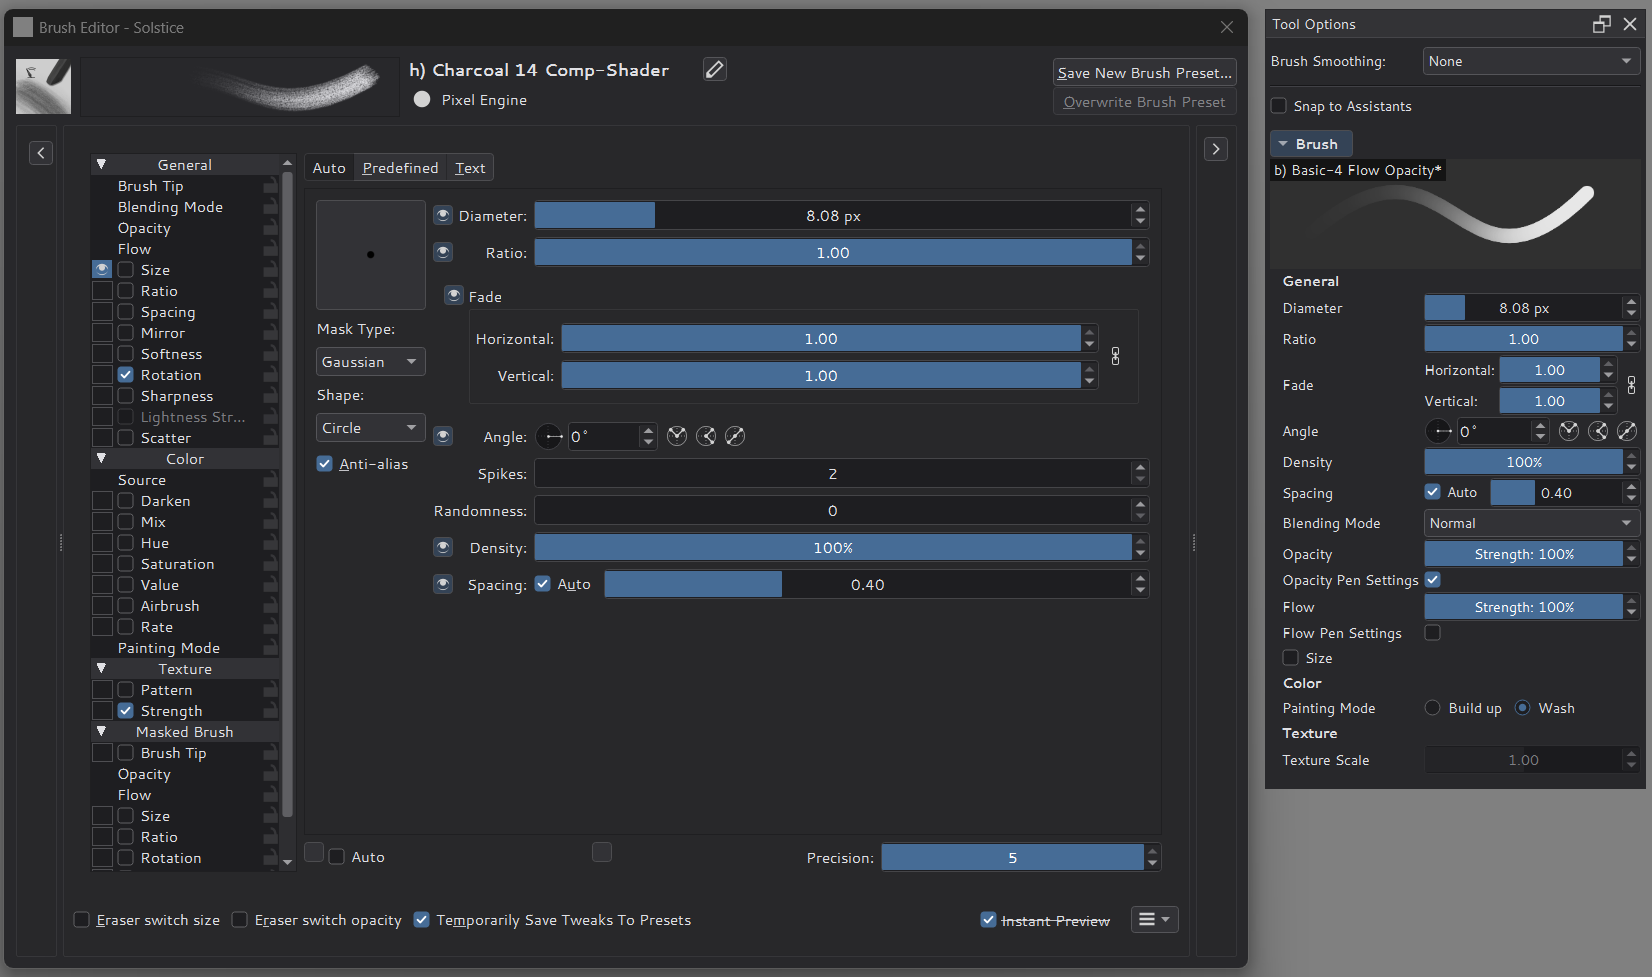
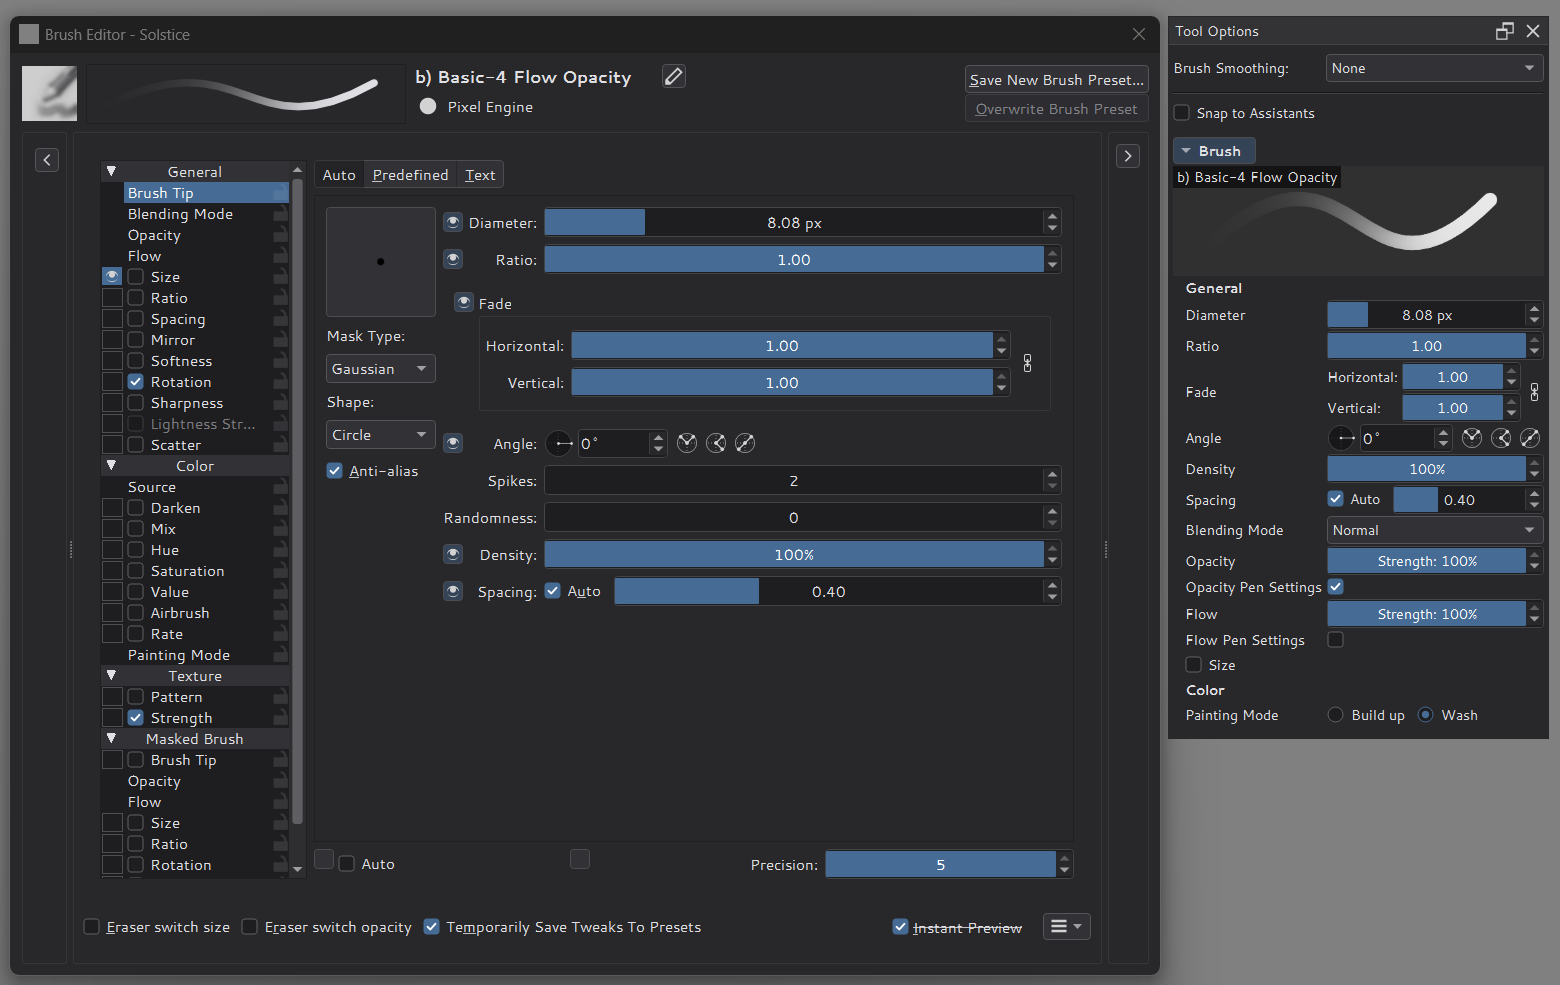
Brush Editor fixes; new README screenshots
- Switching back to the previous preset (Q) and pen/eraser switches now
  update the Brush Editor's name and thumbnail, not only its settings
  (Krita bug).
- The Brush Editor's option list scroll bars no longer turn white while
  the window has focus: the list replaces its active window color with
  the text color for its checkboxes, and its scroll bars inherited it
  (Krita bug).
- New README main window and Tool Options screenshots.

diff --git a/libs/ui/widgets/kis_categorized_list_view.cpp b/libs/ui/widgets/kis_categorized_list_view.cpp
@@ -15,6 +15,7 @@
 #include <kis_icon.h>
 #include "kis_debug.h"
 #include <KisKineticScroller.h>
+#include <QScrollBar>
 
 KisCategorizedListView::KisCategorizedListView(QWidget* parent):
     QListView(parent)
@@ -26,6 +27,7 @@ KisCategorizedListView::KisCategorizedListView(QWidget* parent):
     QPalette newPall = palette();
     newPall.setColor(QPalette::Active, QPalette::Window, palette().text().color() );
     setPalette(newPall);
+    updateScrollBarPalettes();
 
     {
         QScroller *scroller = KisKineticScroller::createPreconfiguredScroller(this);
@@ -112,6 +114,30 @@ void KisCategorizedListView::rowsAboutToBeRemoved(const QModelIndex &parent, int
 {
     QListView::rowsAboutToBeRemoved(parent, start, end);
     model()->sort(0);
+}
+
+void KisCategorizedListView::updateScrollBarPalettes()
+{
+    // Solstice: the view's active Window color is replaced by the text color
+    // for its checkboxes (see the constructor). The scroll bars inherited it
+    // and turned white while the window had focus; they keep the window
+    // color of the inactive group, which is not replaced.
+    const QColor window = palette().color(QPalette::Inactive, QPalette::Window);
+    for (QScrollBar *bar : {verticalScrollBar(), horizontalScrollBar()}) {
+        if (bar && bar->palette().color(QPalette::Active, QPalette::Window) != window) {
+            QPalette barPalette = bar->palette();
+            barPalette.setColor(QPalette::Active, QPalette::Window, window);
+            bar->setPalette(barPalette);
+        }
+    }
+}
+
+void KisCategorizedListView::changeEvent(QEvent *event)
+{
+    QListView::changeEvent(event);
+    if (event->type() == QEvent::PaletteChange) {
+        updateScrollBarPalettes();
+    }
 }
 
 void KisCategorizedListView::mousePressEvent(QMouseEvent* event)

diff --git a/plugins/paintops/defaultpaintops/brush/tests/KisToolOptionsBrushTest.cpp b/plugins/paintops/defaultpaintops/brush/tests/KisToolOptionsBrushTest.cpp
@@ -7,6 +7,7 @@
 #include <QDir>
 #include <QLabel>
 #include <QRadioButton>
+#include <QScrollBar>
 #include <QTest>
 #include <QToolButton>
 
@@ -59,6 +60,7 @@ private Q_SLOTS:
     void testOtherMirrors();
     void testPresetPreview();
     void testFadeGroup();
+    void testOptionListScrollBarColor();
 };
 
 namespace
@@ -631,6 +633,25 @@ void KisToolOptionsBrushTest::testFadeGroup()
     brushTip->cursor().set(data);
     settle();
     QVERIFY(!fade->isHidden());
+}
+
+/// The option list replaces its active window color with the text color for
+/// its checkboxes; its scroll bars keep the window color (they turned white
+/// while the Brush Editor had focus).
+void KisToolOptionsBrushTest::testOptionListScrollBarColor()
+{
+    Editor editor;
+    QScrollBar *bar = editor.view->verticalScrollBar();
+    const QColor window = editor.view->palette().color(QPalette::Inactive, QPalette::Window);
+    QCOMPARE(bar->palette().color(QPalette::Active, QPalette::Window), window);
+    QVERIFY(bar->palette().color(QPalette::Active, QPalette::Window)
+            != editor.view->palette().color(QPalette::Active, QPalette::Text));
+
+    // a theme change (palette change) keeps it
+    QPalette palette = editor.view->palette();
+    palette.setColor(QPalette::Inactive, QPalette::Window, QColor(10, 20, 30));
+    editor.view->setPalette(palette);
+    QCOMPARE(bar->palette().color(QPalette::Active, QPalette::Window), QColor(10, 20, 30));
 }
 
 SOLSTICE_BRUSH_TEST_MAIN(KisToolOptionsBrushTest)

diff --git a/libs/ui/kis_paintop_box.cc b/libs/ui/kis_paintop_box.cc
@@ -996,6 +996,12 @@ void KisPaintopBox::slotInputDeviceChanged(const KoInputDevice& inputDevice)
             setCurrentPaintop(toolData->paintOpID);
         }
     }
+
+    // Solstice: the Brush Editor's name and thumbnail follow the switch, as
+    // in resourceSelected()
+    if (m_resourceProvider->currentPreset()) {
+        m_presetsEditor->resourceSelected(m_resourceProvider->currentPreset());
+    }
 }
 
 void KisPaintopBox::slotToggleEraserPreset(bool usingEraser)
@@ -1410,6 +1416,9 @@ void KisPaintopBox::slotSwitchToPreviousPreset()
 {
     if (m_resourceProvider->previousPreset()) {
         setCurrentPaintop(m_resourceProvider->previousPreset());
+        // Solstice: the Brush Editor's name and thumbnail follow the switch,
+        // as in resourceSelected() (Krita updated only the settings)
+        m_presetsEditor->resourceSelected(m_resourceProvider->currentPreset());
         m_viewManager->showFloatingMessage(
                     i18n("%1\nselected",
                          m_resourceProvider->currentPreset()->name()),

diff --git a/libs/ui/widgets/kis_categorized_list_view.h b/libs/ui/widgets/kis_categorized_list_view.h
@@ -39,8 +39,12 @@ protected Q_SLOTS:
     void mouseReleaseEvent(QMouseEvent* event) override;
     void slotScrollerStateChange(QScroller::State state);
 
+protected:
+    void changeEvent(QEvent *event) override;
+
 private:
     void updateRows(int begin, int end);    
+    void updateScrollBarPalettes();
     bool isCompositeBoxControl = false;
 };
 

diff --git a/docs/agent/feature-inventory.md b/docs/agent/feature-inventory.md
@@ -28,6 +28,8 @@ git diff --stat -w --ignore-cr-at-eol $(git merge-base krita-sol krita/6.0) krit
 | Brush stroke previews in the toolbar popup and Brush Editor | none | `libs/ui/kis_paintop_box.cc` (`enableStrokePreviewSetting()` on the popup), `libs/ui/widgets/kis_paintop_presets_editor.cpp` (preview mode, hidden Display section, "Preview Size") | `docs/brush-stroke-preview.md`, `docs/agent/brush-stroke-preview.md` |
 | Brush preset grouping | none (code in existing classes) | `libs/resourcewidgets/KisResourceItemListView.{h,cpp}` (`setGrouping()`, `doItemsLayout()`, `paintEvent()`); `libs/ui/widgets/KisPresetDockerFilters.{h,cpp}` (grouping dropdown, `groupOf()`); `libs/ui/widgets/kis_preset_chooser.cpp` (passes the view); `libs/ui/tests/KisBrushStrokePreviewTest.cpp` (`testDockerGrouping`); `kritarc` key `Solstice/BrushPresetGrouping` | `docs/brush-stroke-preview.md`, `docs/agent/brush-preset-grouping.md` |
 | Brush options in Tool Options (phase 3a: eyes on option rows, Brush section; phase 3b: page parameters, shape tools) | `libs/ui/KisToolOptionsBrushItems.*`, `libs/ui/KisToolOptionsParameters.*`, `libs/ui/tool/KisToolOptionsBrushSection.*`, `plugins/paintops/defaultpaintops/brush/tests/KisToolOptionsBrushTest.cpp`, `KisBrushTestMain.h` | `libs/ui/kis_paintop_option.*` (Tool Options id, shown flag), `libs/ui/kis_categorized_list_model.h` (two roles), `libs/ui/kis_paintop_options_model.*`, `libs/ui/kis_categorized_item_delegate.*` (eye column), `libs/ui/kis_paintop_settings_widget.*` (`setPaintOpId()`, `toolOptionsOptions()`), `libs/ui/kis_paintop_box.*` (`sigCurrentSettingsWidgetChanged()`, `currentSettingsWidget()`), `libs/ui/tool/kis_tool_paint.*` (`showsBrushOptions()`), `libs/ui/tool/kis_tool_freehand.h`, `plugins/tools/basictools/kis_tool_line.h`, `libs/ui/CMakeLists.txt`, Pixel Brush and Deform settings widgets (`withToolOptionsId()`), brush tests `CMakeLists.txt`; phase 3b: `KisPaintOpOption::addToolOptionsParameter()`, `KisPaintOpSettingsWidget::toolOptionsParameterId()`, `plugins/paintops/libpaintop/kis_brush_option_widget.cpp`, `KisCompositeOpOptionWidget.cpp`, `KisPaintingModeOptionWidget.cpp`, `KisTextureOptionWidget.cpp`, `KisCurveOptionWidget.cpp` (registration), `libs/widgetutils/kis_slider_spin_box.*` (`exponentRatio()` getters), `libs/ui/tool/kis_tool_shape.*` (`createOptionWidgets()`, `moveBrushSectionLast()`), `kis_tool_rectangle_base.cpp`, `kis_tool_paint.*` (`createBrushOptionsSection()`), `plugins/tools/basictools/kis_tool_{rectangle,ellipse}.h`, `plugins/tools/tool_polygon/kis_tool_polygon.h`, `plugins/tools/tool_polyline/kis_tool_polyline.h`; kritarc `Solstice/ToolOptionsBrushItems/<paintop>`, `Solstice/ToolOptionsBrushCollapsed` | `docs/brush-editor.md`, `docs/agent/tool-options-brush.md` |
+| Brush Editor name and thumbnail after Q (previous preset) and pen/eraser switches (Krita bug: only the settings followed) | none | `libs/ui/kis_paintop_box.cc` (`slotSwitchToPreviousPreset()`, `slotInputDeviceChanged()` call `m_presetsEditor->resourceSelected()`, as `resourceSelected()` and `restoreResource()` do) | `docs/brush-editor.md` |
+| Option list scroll bars no longer white while the window has focus (Krita bug) | none | `libs/ui/widgets/kis_categorized_list_view.{h,cpp}` (`updateScrollBarPalettes()`, `changeEvent()`): the view replaces its active Window color with the text color for its checkboxes, and the scroll bars inherited it; they now keep the inactive Window color. Test: `KisToolOptionsBrushTest::testOptionListScrollBarColor` | `docs/agent/wiki/log.md` |
 | Brush Presets: scroll to the selected preset (setting, off by default) | none (code in existing classes) | `libs/resourcewidgets/KisResourceItemListView.{h,cpp}` (`setFollowCurrentItem()`, `resizeEvent()`), `libs/resourcewidgets/KisResourceItemChooser.{h,cpp}` (`setViewCurrentIndex()`), `libs/ui/widgets/kis_paintop_presets_chooser_popup.{h,cpp}` (`enableScrollToSelectionSetting()`), `plugins/dockers/presetdocker/presetdocker_dock.cpp`, `libs/ui/tests/KisBrushStrokePreviewTest.cpp`; `kritarc` key `Solstice/BrushPresetScrollToSelection` | `docs/brush-stroke-preview.md`, `docs/agent/brush-preset-scroll.md` |
 | Failing tests fixed (2026-10-08): per-test profile, PSD text strings, JXL layer names, Storyboard model signals | none | `libs/global/KisSolsticePaths.{h,cpp}` (`profileRoot()` in test mode), `libs/psdutils/cos/kis_cos_writer.cpp` (`writeString()`), `plugins/impex/jxl/JPEGXLImport.cpp`, `plugins/dockers/storyboarddocker/{StoryboardModel,CommentModel}.cpp`, tests `kis_transform_mask_test.cpp`, `TestKisSwatchGroup.cpp`, `TestFallBackColorTransformation.cpp`, `KisSolsticePathsTest.cpp` | `docs/agent/wiki/pitfalls/build-format-test.md` |
 | Test Fontconfig configuration (2026-10-08) | none | `KoTestConfig.h.cmake` (`KRITA_FONTCONFIG_DIR_FOR_TESTS`), `sdk/tests/simpletest.h` (`kisTestSetupFontconfig()`), `sdk/tests/kistest.h` | `docs/agent/wiki/pitfalls/build-format-test.md` |

diff --git a/docs/agent/wiki/log.md b/docs/agent/wiki/log.md
@@ -211,3 +211,15 @@ Format: `## YYYY-MM-DD <kind>: <subject>`, then what changed and the sources.
   is mirrored cell by cell; the auto tip's Fade (two values and the link
   button) is one parameter, hidden for the Soft mask type through its mode
   widget `PageFade`. The README screenshot was replaced.
+
+## 2026-10-08 ingest: Brush Editor fixes (previous preset, scroll bar color)
+
+- Two Krita bugs, recorded in `feature-inventory.md`:
+  `KisPaintopBox::slotSwitchToPreviousPreset()` (Q) and
+  `slotInputDeviceChanged()` (pen/eraser) changed the settings but not the
+  Brush Editor's name and thumbnail, because only `resourceSelected()` and
+  `restoreResource()` called `m_presetsEditor->resourceSelected()`;
+  `KisCategorizedListView` replaces its active Window color with the text
+  color, which its scroll bars inherited (white while focused). Lesson: a
+  palette role changed on a scroll area reaches its scroll bars; set the
+  role back on the bars, and again on each PaletteChange.

diff --git a/docs/brush-editor.md b/docs/brush-editor.md
@@ -27,6 +27,11 @@ These apply to the engines that use the shared model:
   Brush Editor no longer adds the modified mark to the preset. In Krita, any
   edit in the Brush Editor did.
 
+For every engine, the Brush Editor follows every brush switch: switching
+back to the previous brush (Q) or between pen and eraser updates its brush
+name and thumbnail too. In Krita they kept showing the previous brush while
+the settings changed.
+
 Everything else works as in Krita: presets are saved in the same format, and
 the toolbar, the On-Canvas Brush Editor and resizing the brush on the canvas
 change the same values as before.

diff --git a/README.md b/README.md
@@ -1,6 +1,6 @@
 # Solstice
 
-![Solstice main window with the Brush Presets docker grouped by bundle, the Quick Access Palette and HueSVC](docs/images/solstice-main-window.webp)
+![Solstice main window with the Brush Presets docker grouped by bundle, the Quick Access Palette, HueSVC and the Brush section of Tool Options](docs/images/solstice-main-window.webp)
 
 **Solstice is an open-source, GPU-focused digital painting application derived
 from the Krita 6 codebase.**
